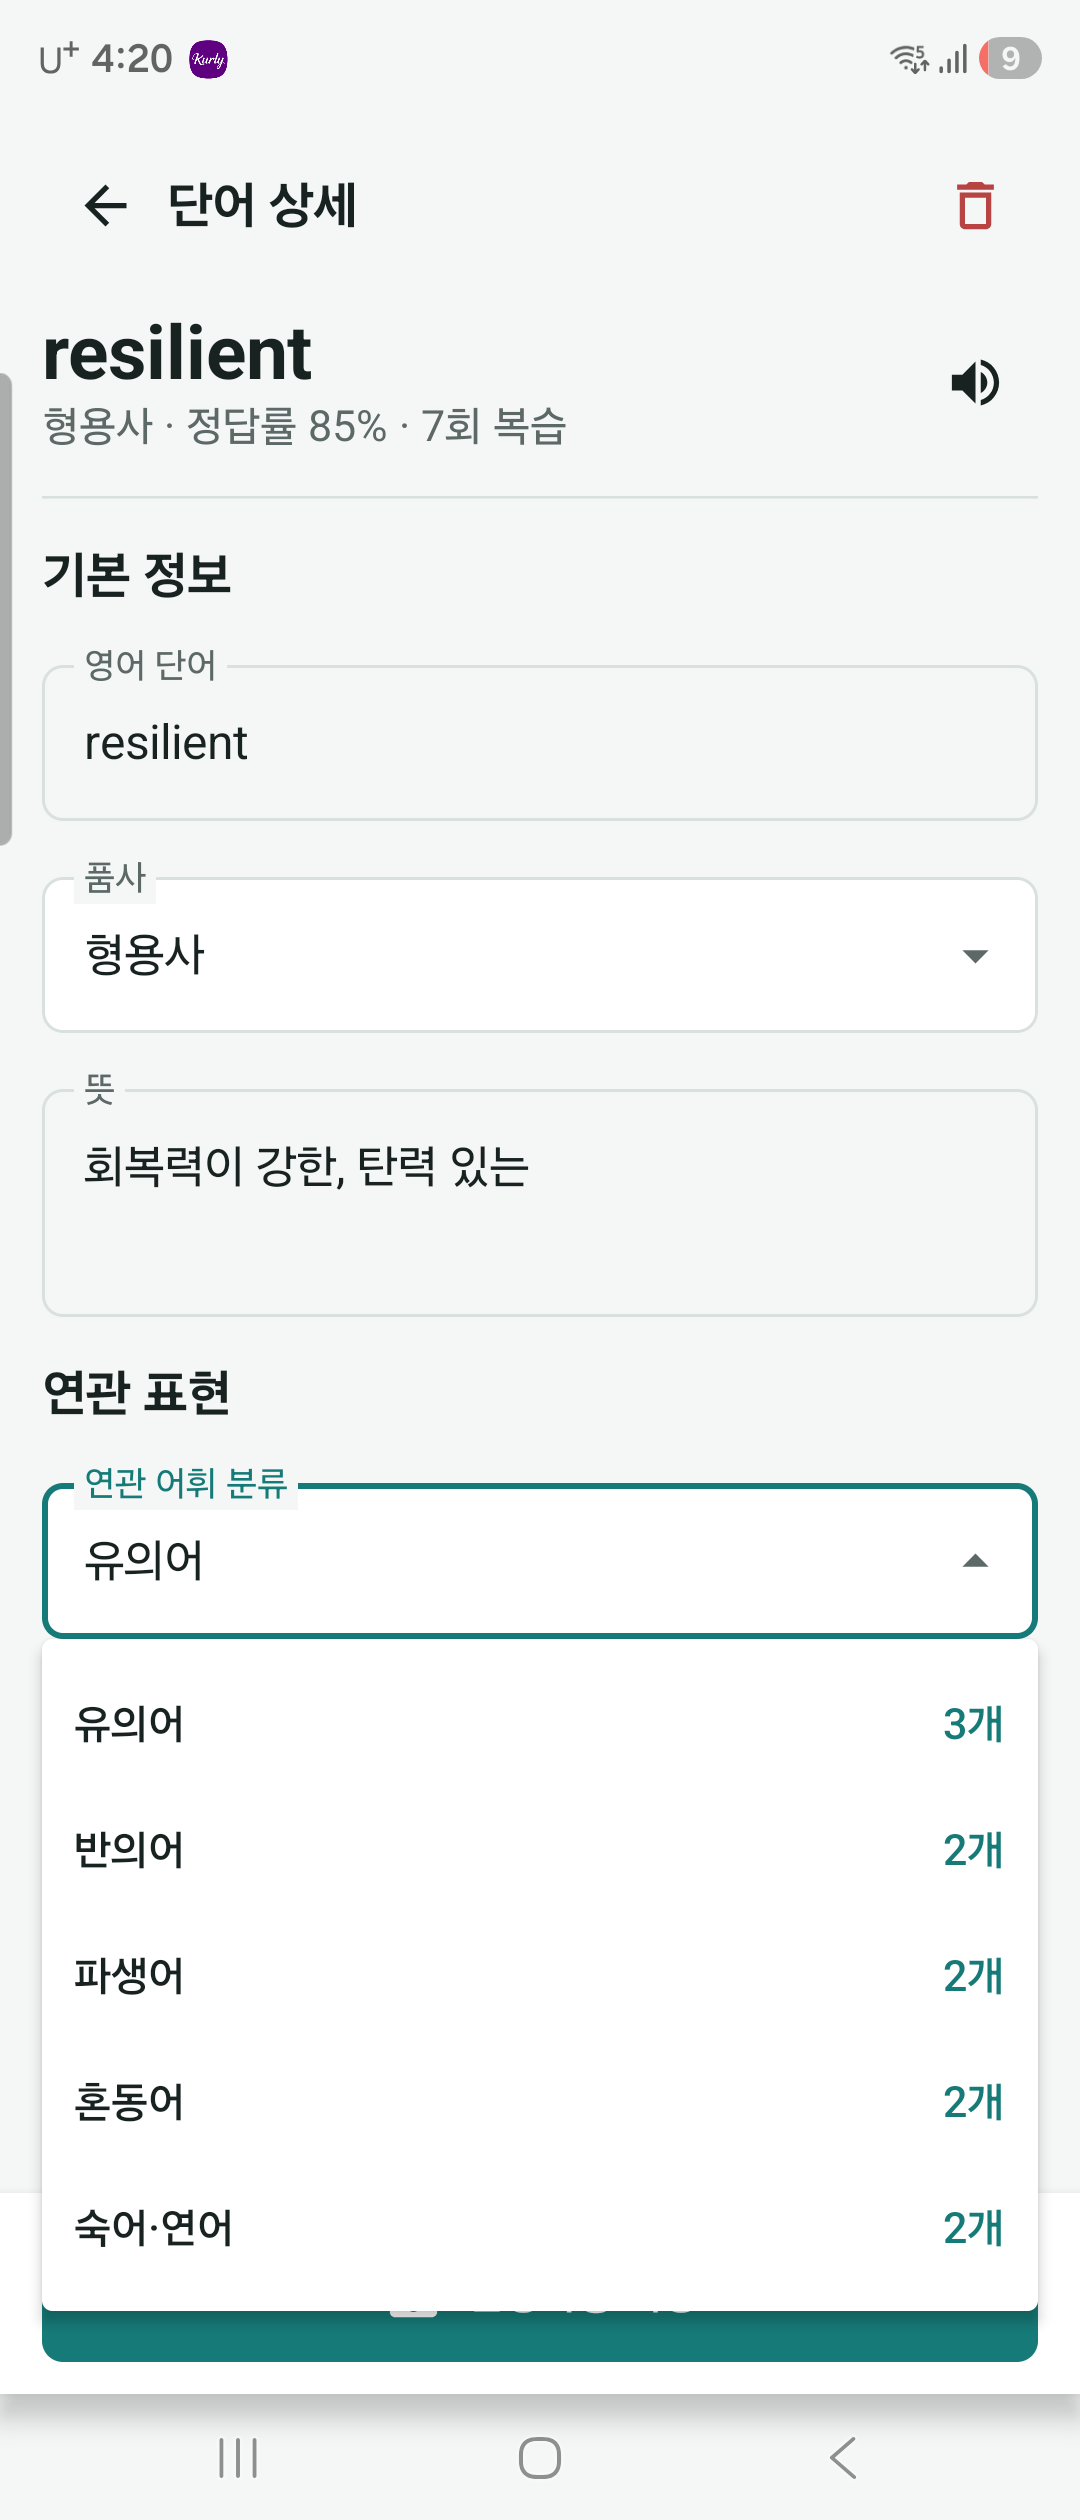
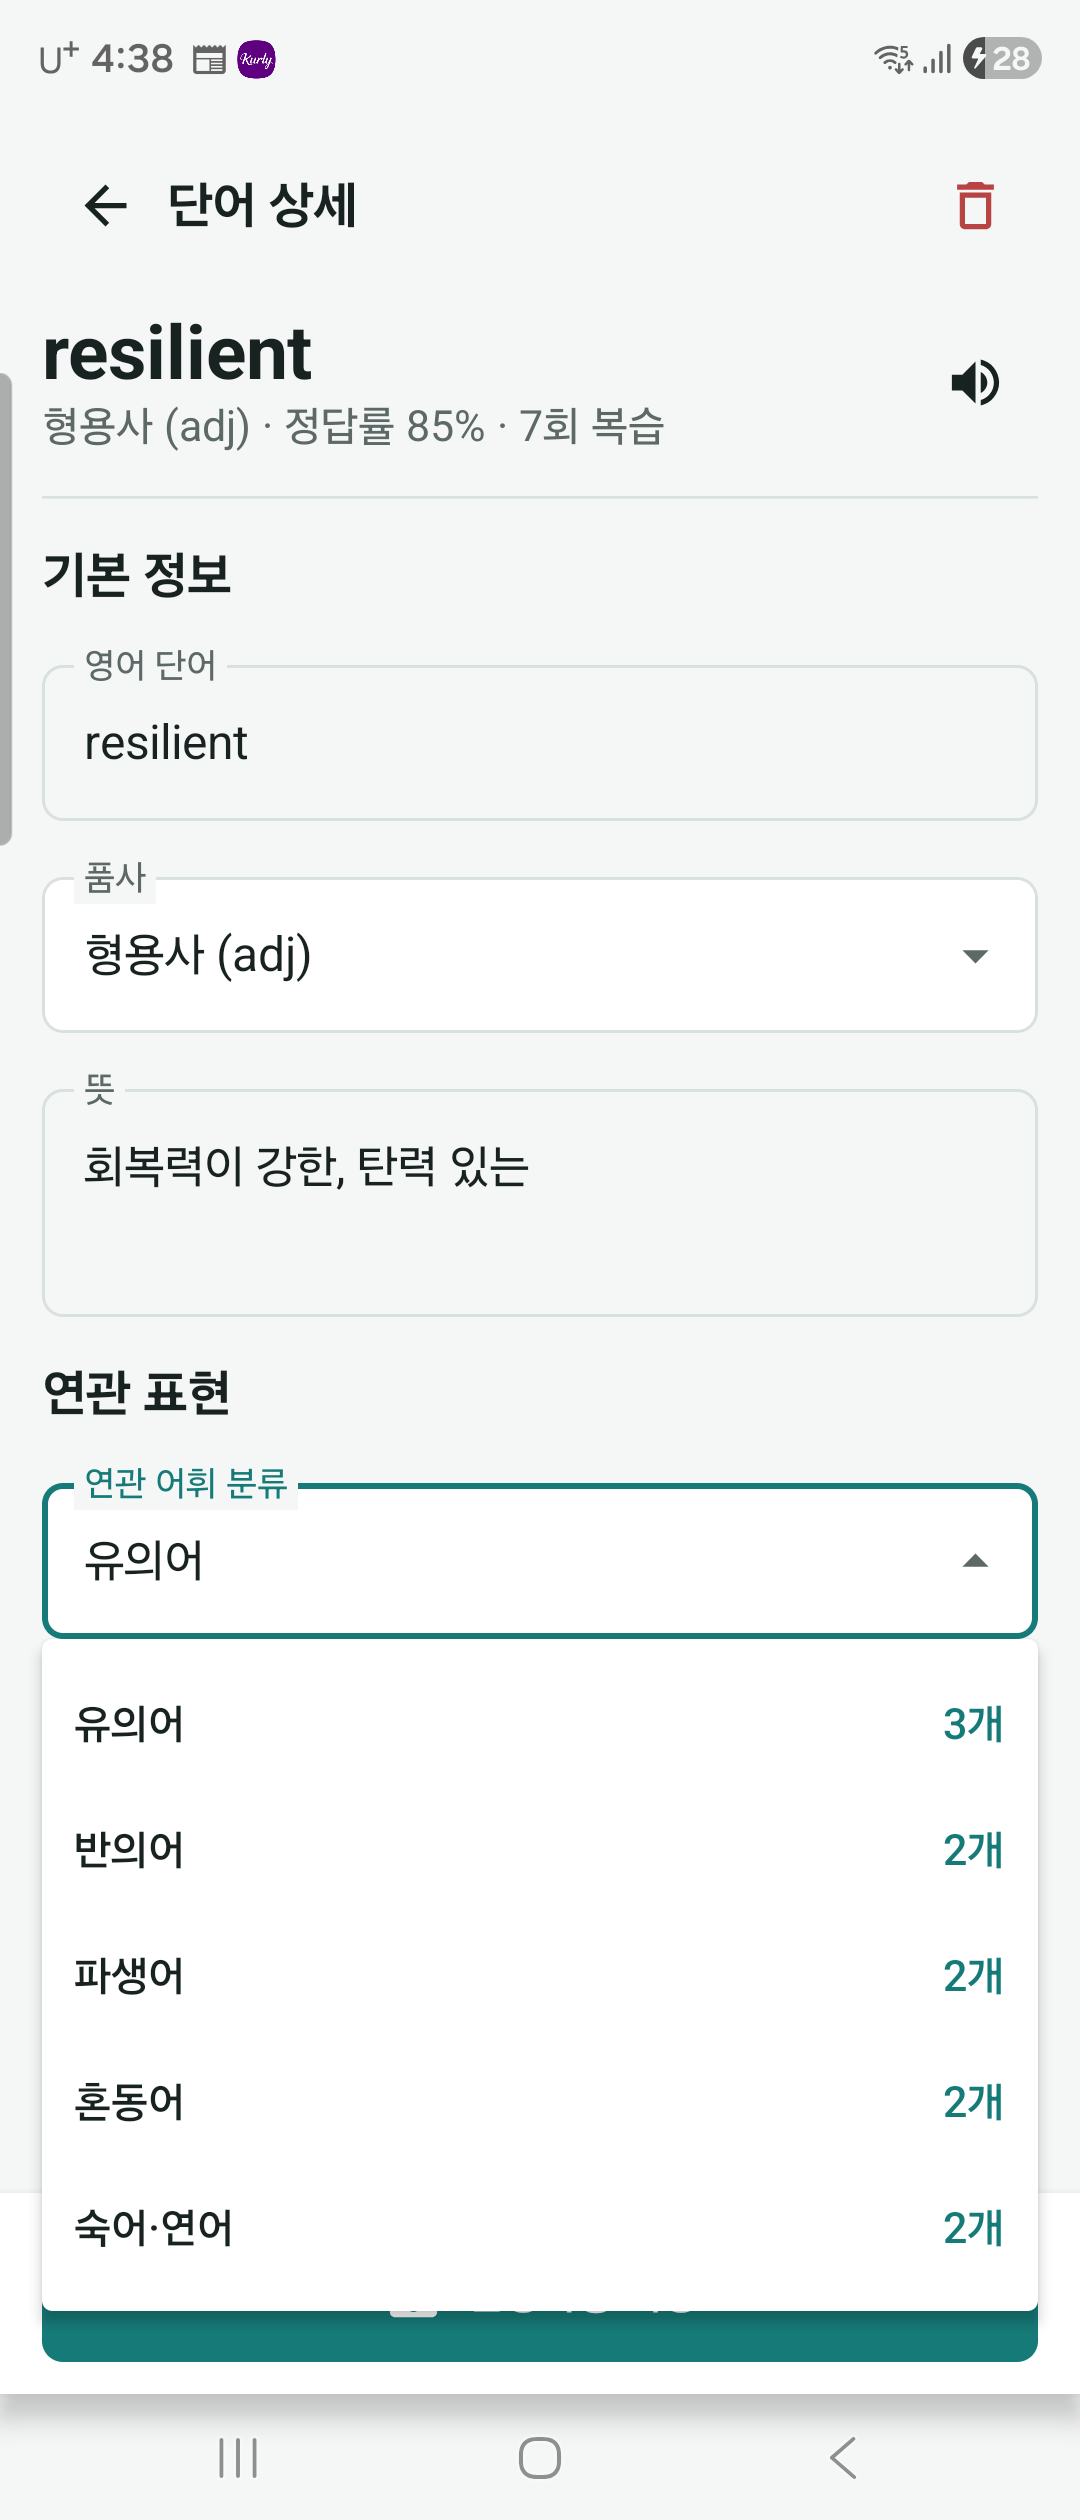
Improve vocabulary input defaults

diff --git a/app/src/main/java/com/example/vocanote/features/editor/presentation/WordEditorScreen.kt b/app/src/main/java/com/example/vocanote/features/editor/presentation/WordEditorScreen.kt
@@ -46,12 +46,12 @@ import androidx.compose.runtime.saveable.rememberSaveable
 import androidx.compose.runtime.setValue
 import androidx.compose.ui.Alignment
 import androidx.compose.ui.Modifier
-import androidx.compose.ui.focus.FocusDirection
 import androidx.compose.ui.focus.FocusRequester
 import androidx.compose.ui.focus.focusRequester
 import androidx.compose.ui.graphics.Color
-import androidx.compose.ui.platform.LocalFocusManager
+import androidx.compose.ui.text.input.KeyboardType
 import androidx.compose.ui.text.input.ImeAction
+import androidx.compose.ui.text.intl.LocaleList
 import androidx.compose.ui.unit.dp
 import com.example.vocanote.core.designsystem.ContentMaxWidth
 import com.example.vocanote.core.designsystem.VocaSpacing
@@ -62,6 +62,9 @@ import com.example.vocanote.core.speech.rememberWordSpeaker
 import com.example.vocanote.features.editor.domain.WordValidationResult
 import com.example.vocanote.features.editor.domain.validateWordDraft
 import kotlinx.coroutines.launch
+
+private val EnglishInputLocales = LocaleList("en-US")
+private val KoreanInputLocales = LocaleList("ko-KR")
 
 @Composable
 fun WordEditorScreen(
@@ -101,8 +104,8 @@ fun WordEditorScreen(
     var validation by remember { mutableStateOf(WordValidationResult()) }
     var showDeleteDialog by rememberSaveable { mutableStateOf(false) }
     val speaker = rememberWordSpeaker()
-    val focusManager = LocalFocusManager.current
     val wordFocusRequester = remember { FocusRequester() }
+    val meaningFocusRequester = remember { FocusRequester() }
     val scrollState = rememberScrollState()
     val coroutineScope = rememberCoroutineScope()
 
@@ -158,7 +161,7 @@ fun WordEditorScreen(
                         Text(text = existingWord.word, style = MaterialTheme.typography.headlineLarge)
                         Text(
                             text = listOfNotNull(
-                                partOfSpeech?.label,
+                                partOfSpeech?.displayLabel,
                                 "정답률 ${(existingWord.accuracy * 100).toInt()}%",
                                 "${existingWord.attemptCount}회 복습"
                             ).joinToString(" · "),
@@ -195,8 +198,15 @@ fun WordEditorScreen(
                     isError = validation.wordError != null,
                     singleLine = true,
                     shape = MaterialTheme.shapes.medium,
-                    keyboardOptions = KeyboardOptions(imeAction = ImeAction.Next),
-                    keyboardActions = KeyboardActions(onNext = { focusManager.moveFocus(FocusDirection.Down) })
+                    keyboardOptions = KeyboardOptions(
+                        autoCorrectEnabled = false,
+                        keyboardType = KeyboardType.Ascii,
+                        imeAction = ImeAction.Next,
+                        hintLocales = EnglishInputLocales
+                    ),
+                    keyboardActions = KeyboardActions(
+                        onNext = { meaningFocusRequester.requestFocus() }
+                    )
                 )
                 PartOfSpeechField(
                     selected = partOfSpeech,
@@ -208,13 +218,16 @@ fun WordEditorScreen(
                         meaning = it
                         validation = validation.copy(meaningError = null)
                     },
-                    modifier = Modifier.fillMaxWidth(),
+                    modifier = Modifier
+                        .fillMaxWidth()
+                        .focusRequester(meaningFocusRequester),
                     label = { Text("뜻") },
                     placeholder = { Text("예: 회복력이 강한, 탄력 있는") },
                     supportingText = validation.meaningError?.let { error -> { Text(error) } },
                     isError = validation.meaningError != null,
                     minLines = 2,
                     maxLines = 4,
+                    keyboardOptions = KeyboardOptions(hintLocales = KoreanInputLocales),
                     shape = MaterialTheme.shapes.medium
                 )
             }
@@ -269,6 +282,7 @@ fun WordEditorScreen(
                     isError = validation.exampleError != null,
                     minLines = 2,
                     maxLines = 5,
+                    keyboardOptions = KeyboardOptions(hintLocales = EnglishInputLocales),
                     shape = MaterialTheme.shapes.medium
                 )
                 OutlinedTextField(
@@ -284,6 +298,7 @@ fun WordEditorScreen(
                     isError = validation.noteError != null,
                     minLines = 3,
                     maxLines = 7,
+                    keyboardOptions = KeyboardOptions(hintLocales = KoreanInputLocales),
                     shape = MaterialTheme.shapes.medium
                 )
             }
@@ -481,6 +496,11 @@ private fun RelatedTermsEditor(
             isError = error != null,
             minLines = 3,
             maxLines = 6,
+            keyboardOptions = KeyboardOptions(
+                autoCorrectEnabled = false,
+                keyboardType = KeyboardType.Ascii,
+                hintLocales = EnglishInputLocales
+            ),
             shape = MaterialTheme.shapes.medium
         )
     }
@@ -499,7 +519,7 @@ private fun PartOfSpeechField(
         onExpandedChange = { expanded = it }
     ) {
         OutlinedTextField(
-            value = selected?.label ?: "선택 안 함",
+            value = selected?.displayLabel ?: "선택 안 함",
             onValueChange = {},
             modifier = Modifier
                 .fillMaxWidth()
@@ -524,7 +544,7 @@ private fun PartOfSpeechField(
             )
             PartOfSpeech.entries.forEach { part ->
                 DropdownMenuItem(
-                    text = { Text(part.label) },
+                    text = { Text(part.displayLabel) },
                     onClick = {
                         onSelected(part)
                         expanded = false

diff --git a/app/src/main/java/com/example/vocanote/features/review/presentation/ReviewQuestionContent.kt b/app/src/main/java/com/example/vocanote/features/review/presentation/ReviewQuestionContent.kt
@@ -39,6 +39,8 @@ import androidx.compose.ui.focus.FocusRequester
 import androidx.compose.ui.focus.focusRequester
 import androidx.compose.ui.platform.LocalSoftwareKeyboardController
 import androidx.compose.ui.text.input.ImeAction
+import androidx.compose.ui.text.input.KeyboardType
+import androidx.compose.ui.text.intl.LocaleList
 import androidx.compose.ui.text.style.TextAlign
 import androidx.compose.ui.unit.dp
 import com.example.vocanote.core.designsystem.VocaSpacing
@@ -48,6 +50,8 @@ import com.example.vocanote.features.review.domain.ReviewQuestion
 import com.example.vocanote.features.review.domain.answersMatch
 import com.example.vocanote.ui.theme.AccentCoralLight
 import com.example.vocanote.ui.theme.BrandLight
+
+private val EnglishAnswerLocales = LocaleList("en-US")
 
 @Composable
 internal fun ReviewQuestionContent(
@@ -184,11 +188,18 @@ internal fun ReviewQuestionContent(
                     onValueChange = { if (!isAnswerChecked) onWritingAnswerChange(it) },
                     modifier = Modifier.fillMaxWidth().focusRequester(focusRequester),
                     label = { Text("정답") },
-                        placeholder = { Text(if (mode == ReviewMode.Listening) "들은 단어 입력" else "영어 단어 입력") },
+                    placeholder = {
+                        Text(if (mode == ReviewMode.Listening) "들은 단어 입력" else "영어 단어 입력")
+                    },
                     readOnly = isAnswerChecked,
                     singleLine = true,
                     shape = MaterialTheme.shapes.medium,
-                    keyboardOptions = KeyboardOptions(imeAction = ImeAction.Done),
+                    keyboardOptions = KeyboardOptions(
+                        autoCorrectEnabled = false,
+                        keyboardType = KeyboardType.Ascii,
+                        imeAction = ImeAction.Done,
+                        hintLocales = EnglishAnswerLocales
+                    ),
                     keyboardActions = KeyboardActions(onDone = {
                         keyboardController?.hide()
                         if (writingAnswer.isNotBlank()) onCheckWriting()
@@ -263,7 +274,7 @@ private fun QuestionPrompt(
         ) {
             question.partOfSpeech?.let { partOfSpeech ->
                 Text(
-                    text = "품사 · ${partOfSpeech.label}",
+                    text = "품사 · ${partOfSpeech.displayLabel}",
                     modifier = Modifier.padding(bottom = VocaSpacing.small),
                     style = MaterialTheme.typography.labelLarge,
                     color = MaterialTheme.colorScheme.primary

diff --git a/app/src/main/java/com/example/vocanote/core/model/PartOfSpeech.kt b/app/src/main/java/com/example/vocanote/core/model/PartOfSpeech.kt
@@ -2,16 +2,20 @@ package com.example.vocanote.core.model
 
 enum class PartOfSpeech(
     val storageValue: String,
-    val label: String
+    val label: String,
+    val abbreviation: String
 ) {
-    Noun("noun", "명사"),
-    Pronoun("pronoun", "대명사"),
-    Verb("verb", "동사"),
-    Adjective("adjective", "형용사"),
-    Adverb("adverb", "부사"),
-    Preposition("preposition", "전치사"),
-    Conjunction("conjunction", "접속사"),
-    Interjection("interjection", "감탄사");
+    Noun("noun", "명사", "n"),
+    Pronoun("pronoun", "대명사", "pron"),
+    Verb("verb", "동사", "v"),
+    Adjective("adjective", "형용사", "adj"),
+    Adverb("adverb", "부사", "adv"),
+    Preposition("preposition", "전치사", "prep"),
+    Conjunction("conjunction", "접속사", "conj"),
+    Interjection("interjection", "감탄사", "interj");
+
+    val displayLabel: String
+        get() = "$label ($abbreviation)"
 
     companion object {
         fun fromStorageValue(value: String?): PartOfSpeech? = entries.firstOrNull {

diff --git a/app/src/main/java/com/example/vocanote/features/library/presentation/LibraryScreen.kt b/app/src/main/java/com/example/vocanote/features/library/presentation/LibraryScreen.kt
@@ -81,6 +81,7 @@ fun LibraryScreen(
                     word.meaning.contains(query, ignoreCase = true) ||
                     word.example.contains(query, ignoreCase = true) ||
                     word.partOfSpeech?.label?.contains(query, ignoreCase = true) == true ||
+                    word.partOfSpeech?.abbreviation?.contains(query, ignoreCase = true) == true ||
                     word.partOfSpeech?.storageValue?.contains(query, ignoreCase = true) == true ||
                     word.synonyms.any { it.contains(query, ignoreCase = true) } ||
                     word.antonyms.any { it.contains(query, ignoreCase = true) } ||
@@ -232,7 +233,7 @@ private fun WordRow(
                 )
                 word.partOfSpeech?.let { partOfSpeech ->
                     Text(
-                        text = partOfSpeech.label,
+                        text = partOfSpeech.displayLabel,
                         style = MaterialTheme.typography.labelMedium,
                         color = MaterialTheme.colorScheme.primary
                     )

diff --git a/app/src/main/java/com/example/vocanote/features/home/presentation/HomeScreen.kt b/app/src/main/java/com/example/vocanote/features/home/presentation/HomeScreen.kt
@@ -303,7 +303,7 @@ private fun DueWordRow(word: SavedWord, onClick: () -> Unit) {
                     overflow = TextOverflow.Ellipsis
                 )
                 Text(
-                    text = listOfNotNull(word.partOfSpeech?.label, word.meaning).joinToString(" · "),
+                    text = listOfNotNull(word.partOfSpeech?.displayLabel, word.meaning).joinToString(" · "),
                     style = MaterialTheme.typography.bodyMedium,
                     color = MaterialTheme.colorScheme.onSurfaceVariant,
                     maxLines = 1,

diff --git a/app/src/test/java/com/example/vocanote/core/model/PartOfSpeechTest.kt b/app/src/test/java/com/example/vocanote/core/model/PartOfSpeechTest.kt
@@ -11,6 +11,10 @@ class PartOfSpeechTest {
             listOf("명사", "대명사", "동사", "형용사", "부사", "전치사", "접속사", "감탄사"),
             PartOfSpeech.entries.map(PartOfSpeech::label)
         )
+        assertEquals(
+            listOf("n", "pron", "v", "adj", "adv", "prep", "conj", "interj"),
+            PartOfSpeech.entries.map(PartOfSpeech::abbreviation)
+        )
     }
 
     @Test

diff --git a/README.md b/README.md
@@ -47,7 +47,7 @@ Voca Note는 단어를 저장하는 데서 끝나지 않습니다. 답을 보기
     <td width="50%" align="center">
       <img src="docs/screenshots/part-of-speech.png" alt="8품사 선택 메뉴" width="340"><br>
       <strong>8품사 선택</strong><br>
-      명사부터 감탄사까지 드롭다운에서 선택해 단어와 함께 학습합니다.
+      명사 (n)부터 감탄사 (interj)까지 드롭다운에서 선택해 단어와 함께 학습합니다.
     </td>
   </tr>
   <tr>
@@ -73,7 +73,7 @@ Voca Note는 단어를 저장하는 데서 끝나지 않습니다. 답을 보기
 | 영역 | 제공 기능 |
 | --- | --- |
 | 계정 | Credential Manager 기반 Google 로그인, Firebase Authentication |
-| 단어 | 연속 추가, 8품사 선택, 유의어·반의어·파생어·혼동어·숙어/연어, 예문, 메모, Android TTS 발음 |
+| 단어 | 연속 추가, 약어를 포함한 8품사 선택, 유의어·반의어·파생어·혼동어·숙어/연어, 예문, 메모, Android TTS 발음 |
 | 탐색 | 단어·뜻·품사·예문·연관어 통합 검색, 오늘 복습/오답 필터, 알파벳/최근/학습 우선순 정렬 |
 | 연습 | 품사를 함께 보여 주는 능동 회상 카드, 4지선다, 빈칸 예문 쓰기, 듣고 철자 쓰기 |
 | 반복 | 다음 복습 시각 계산, 오답 즉시 재연습, 최대 180일 간격 반복 |
